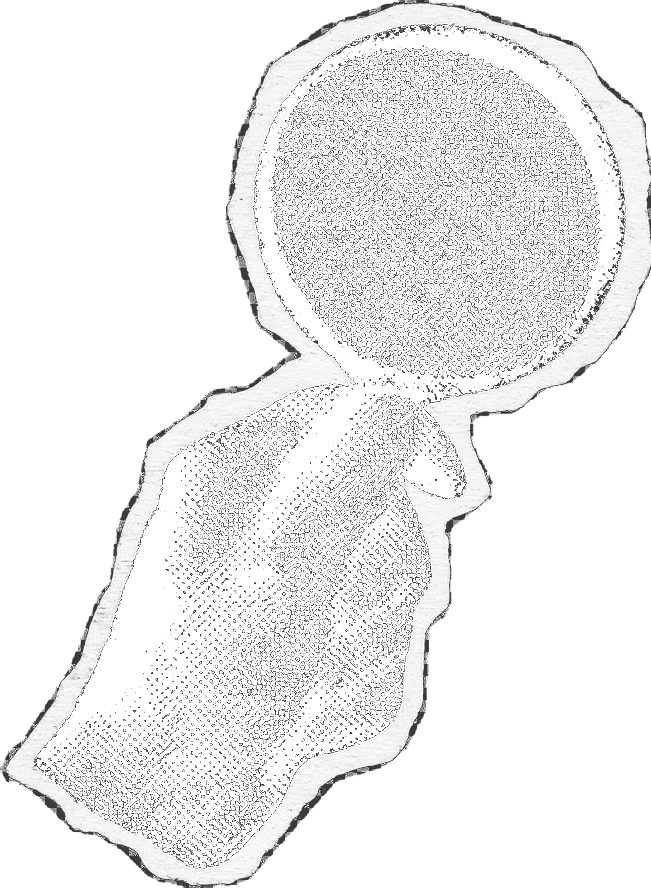
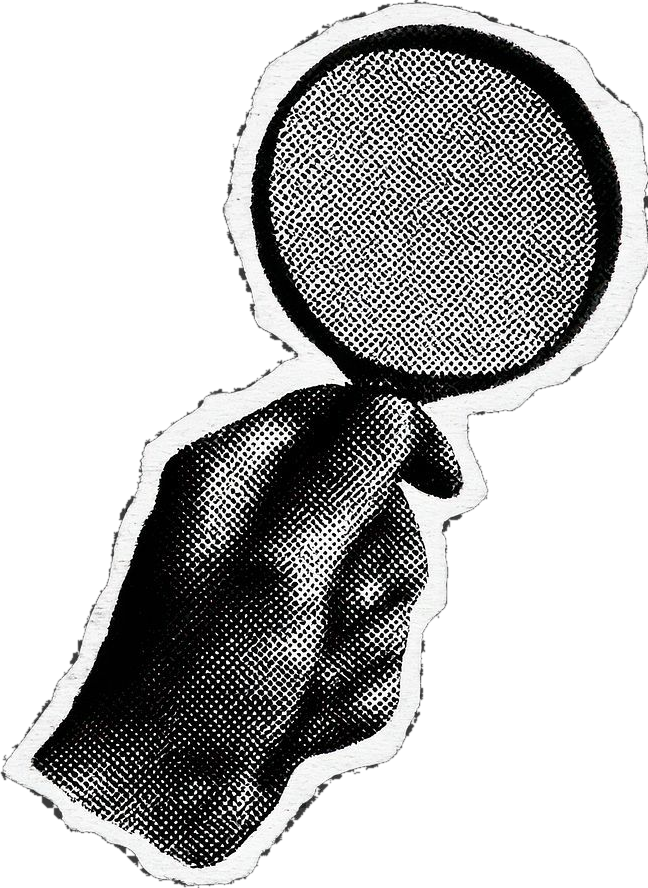
Carte Recherche : trait d'épaisseur uniforme + courbe stoppée à la loupe
- vector-effect=non-scaling-stroke : épaisseur constante partout (corrige la distorsion du preserveAspectRatio none)
- Les deux brins s'arrêtent pile au bord du verre (calés via centre du verre calculé en viewBox 112,40)
- Loupe re-détourée par flood-fill depuis les bords : seul le fond noir devient transparent, les points du halftone du verre restent opaques (la ligne ne transparaît plus)

diff --git a/index.html b/index.html
@@ -161,12 +161,12 @@
       <article class="card card-family card-recherche">
         <div class="card-bg card-bg-recherche">
           <svg class="recherche-line" viewBox="0 0 200 120" preserveAspectRatio="none" fill="none" xmlns="http://www.w3.org/2000/svg">
-            <!-- partie gauche : remonte jusqu'à la loupe (bout glissé derrière) -->
-            <polyline points="0,84 12,76 20,58 30,72 40,66 50,70 60,60 72,50 84,42 96,40"
-              stroke="#cdd2dc" stroke-width="1.7" stroke-linecap="round" stroke-linejoin="miter" stroke-miterlimit="10"/>
-            <!-- partie droite : repart de la loupe vers le haut -->
-            <polyline points="108,42 120,34 132,40 144,28 156,34 170,22 184,30 200,20"
-              stroke="#cdd2dc" stroke-width="1.7" stroke-linecap="round" stroke-linejoin="miter" stroke-miterlimit="10"/>
+            <!-- partie gauche : remonte et s'arrête au bord de la loupe (bout sous le verre) -->
+            <polyline points="0,86 12,78 22,60 32,74 42,68 54,72 66,62 80,52 108,43"
+              stroke="#cdd2dc" stroke-width="3.4" stroke-linecap="round" stroke-linejoin="miter" stroke-miterlimit="10" vector-effect="non-scaling-stroke"/>
+            <!-- partie droite : repart du bord de la loupe vers le haut (bout sous le verre) -->
+            <polyline points="114,41 140,30 154,36 168,24 182,30 200,22"
+              stroke="#cdd2dc" stroke-width="3.4" stroke-linecap="round" stroke-linejoin="miter" stroke-miterlimit="10" vector-effect="non-scaling-stroke"/>
           </svg>
           <img class="recherche-loupe" src="recherche-loupe.png" alt="Loupe tenue à la main" />
         </div>